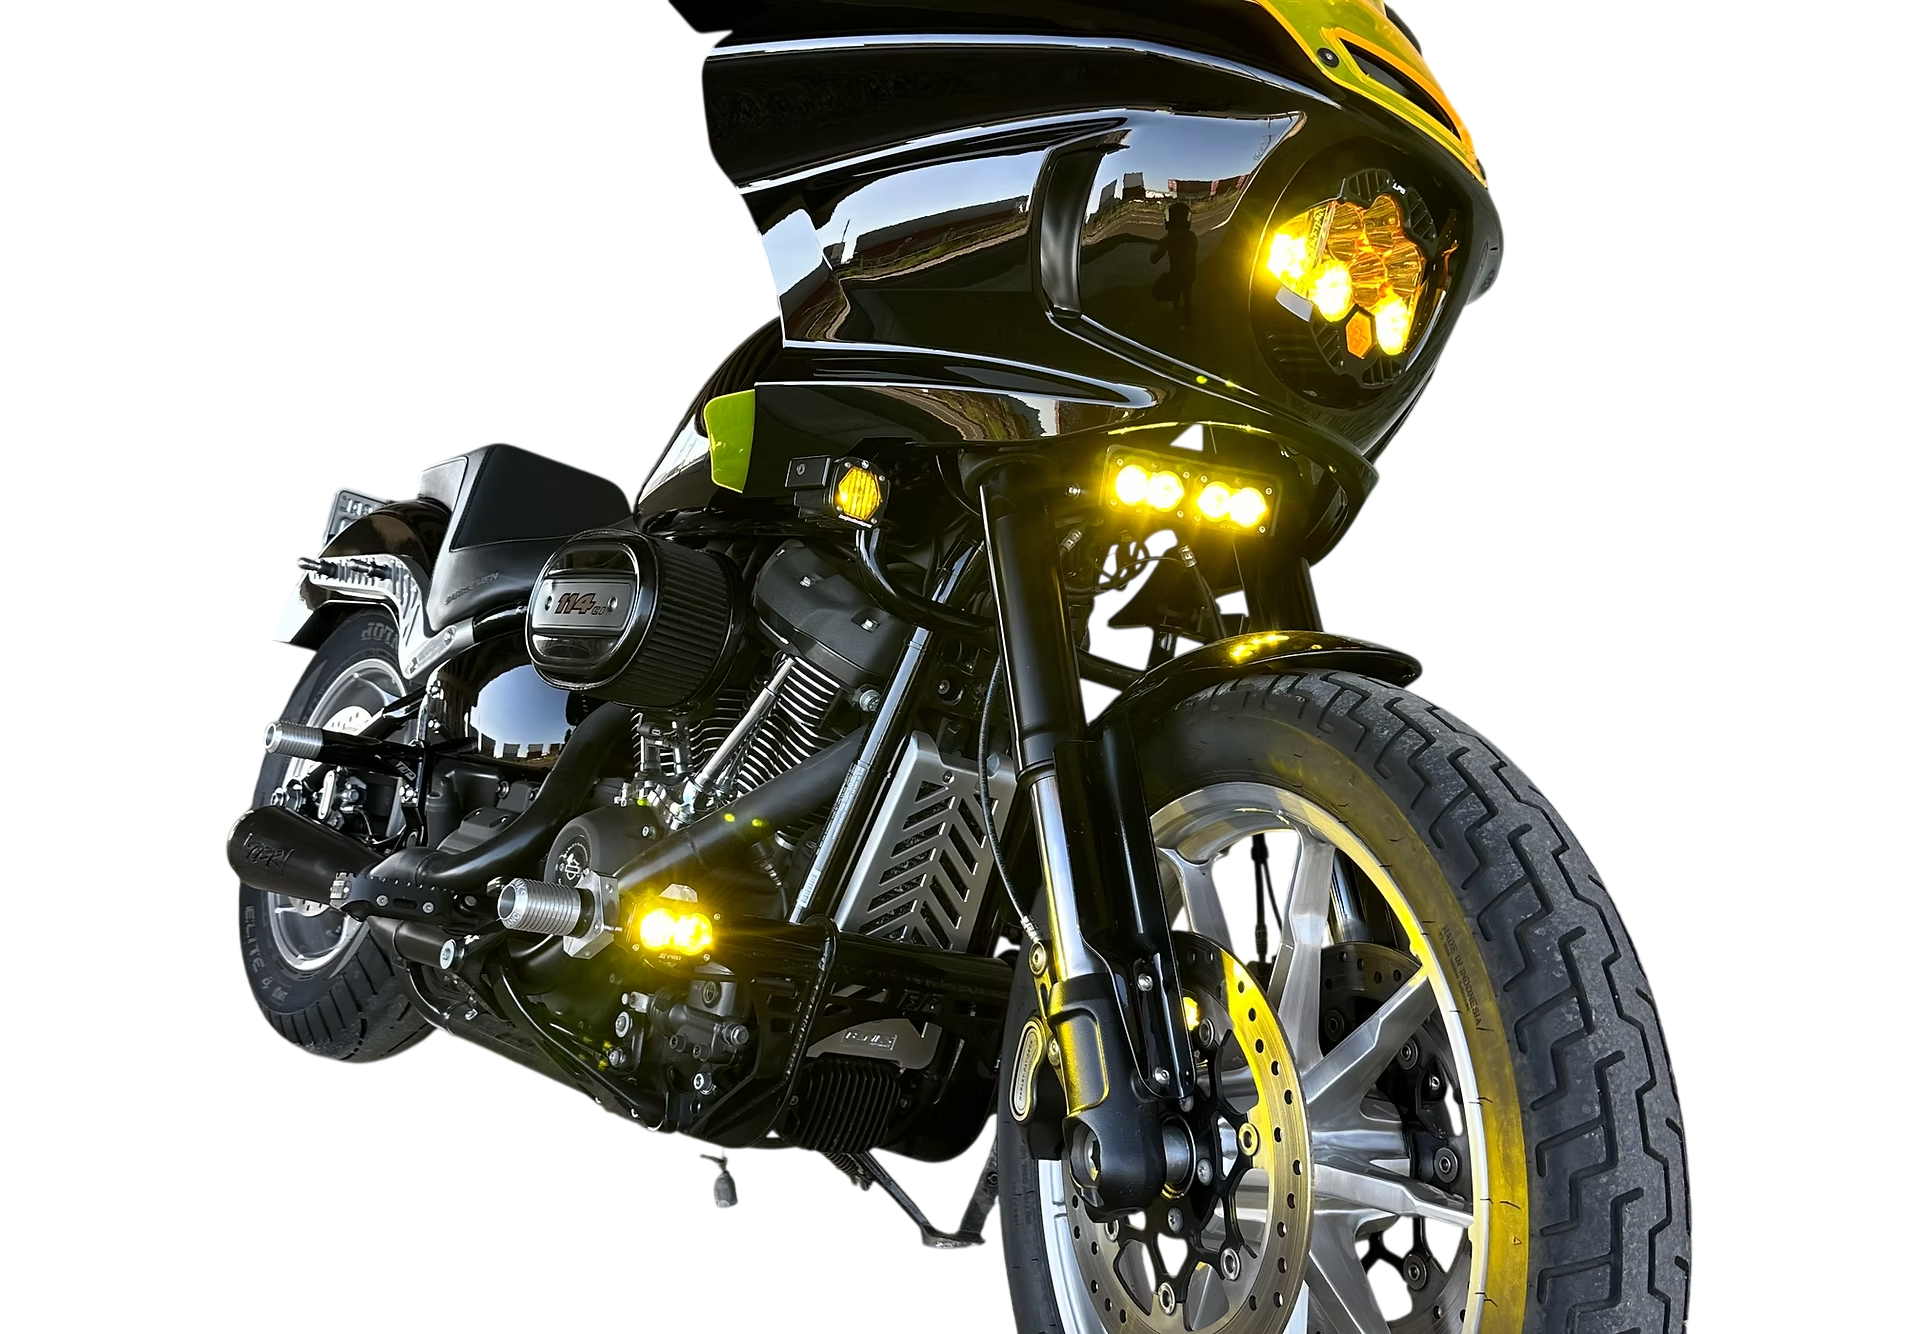
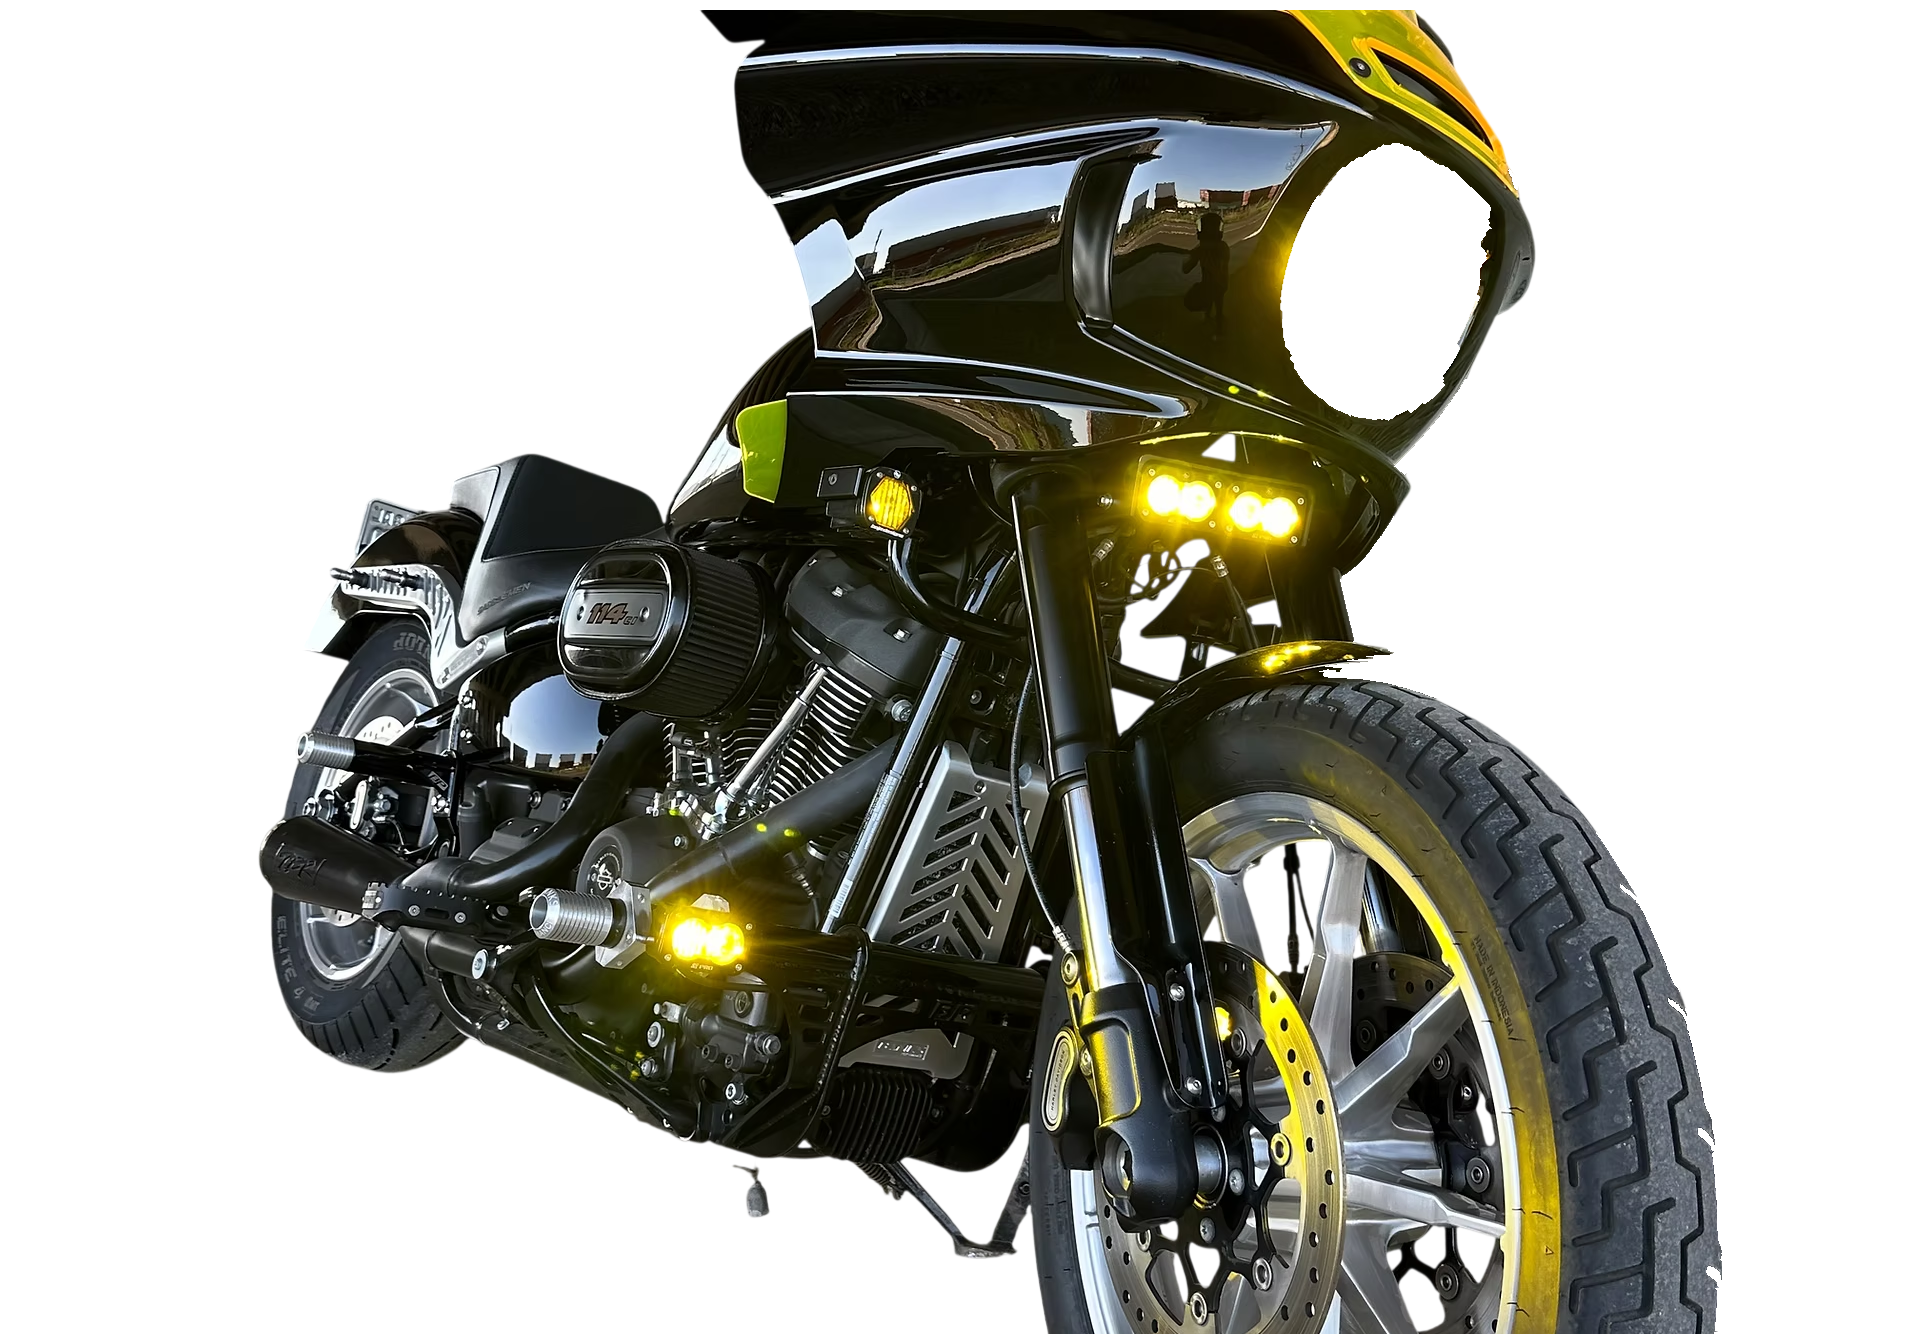
Swap to clean bike template (empty fairing), remove blackout div

diff --git a/banks-configurator.html b/banks-configurator.html
@@ -177,7 +177,7 @@ body{
   text-shadow:0 0 6px rgba(0,0,0,0.9);
 }
 /* Position: main headlight (fairing center) */
-.part-headlight{left:71.4%;top:20.1%;width:110px;}
+.part-headlight{left:70%;top:22%;width:120px;}
 
 /* "Light ON" white shine overlay */
 .part-overlay::after{
